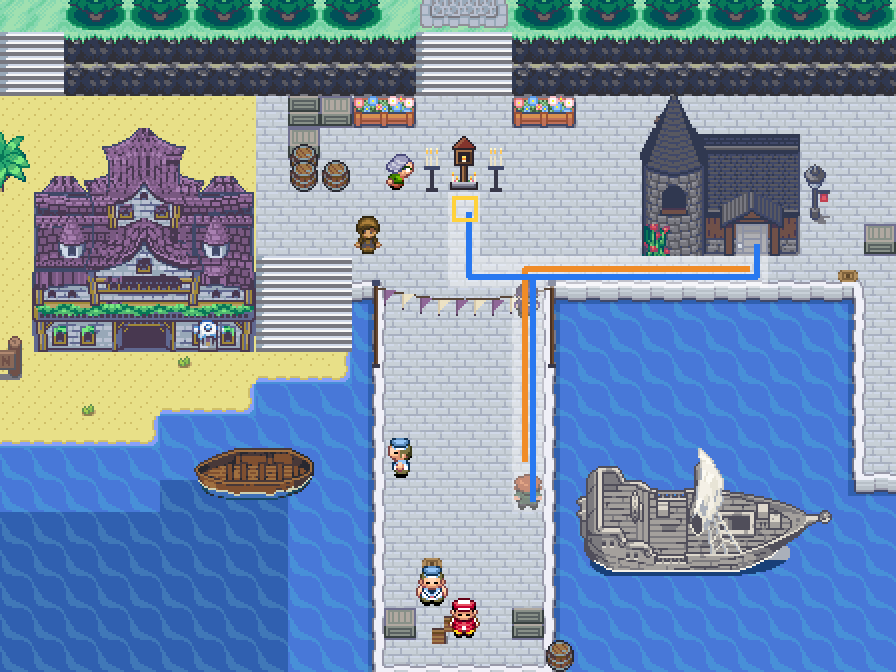
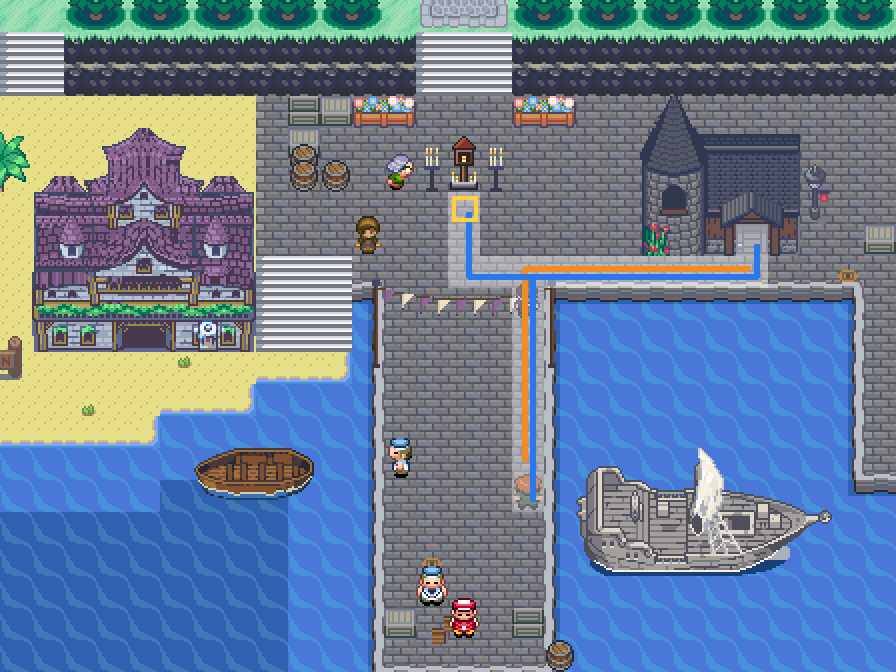
Pelluca waterfront: deeper, richer grey for the dock stone
User: keep the dock stone, make it a deeper, richer mix of greys. Watercress' bricks, kerb and drop kept; every
colour taken deeper and each brick given one of six greys (cool slate, neutral, warm) by its position, repeating every
3 x 2 cells to keep the tile count down. Walk check still clear.

Claude-Session: https://claude.ai/code/session_01FHXnfqnedTHLf5QFbB3MCU

Changed region(s): [[0.2812, 0.125, 1.0, 1.0]]

diff --git a/tools/art/pelluca/waterfront_mock.py b/tools/art/pelluca/waterfront_mock.py
@@ -37,8 +37,36 @@ WC, CB = 0x869C10, 0x869B84
 blk = lambda x, y: (slice(y * S, y * S + S), slice(x * S, x * S + S))
 h = lambda s: int(s, 16)
 
+# v3 (user 2026-11-25: "I like the dock stone itself we currently have, I just want it to be a deeper, richer mix of
+# grey colorings"): Watercress' own stone kept (its bricks, kerb and drop), every colour taken deeper; and each brick
+# given its own grey from a set of six (cool slate, neutral, warm), so the paving reads as weathered stone. A brick's
+# grey follows from where it starts, in a pattern that repeats every 3 x 2 cells (the tile budget stays small).
+STONE_IDS = {0x2b7, 0x2dc, 0x2d4, 0x2dd, 0x2db, 0x2de, 0x2ee, 0x2e5, 0x2e3, 0x2e6, 0x2df, 0x2d5, 0x2d6, 0x2d7, 0x2d3,
+             0x2ff, 0x2f7, 0x2d8, 0x2d0}
+BODY, HIGH = (200, 208, 216), (208, 216, 232)
+DEEP = {(240, 240, 248): (188, 190, 198), (184, 192, 200): (96, 98, 108), (168, 176, 192): (84, 86, 98),
+        (152, 152, 168): (104, 104, 116), (120, 120, 136): (70, 70, 82), (64, 72, 104): (38, 40, 52)}
+BRICK_GREYS = [(138, 140, 150), (126, 128, 138), (148, 146, 148), (118, 118, 126), (142, 136, 132), (130, 126, 126)]
 def wc(m):
-    img, g, ts = MP.grid(WC); return ts.meta(h(m) if isinstance(m, str) else m).copy()
+    img, g, ts = MP.grid(WC); m = h(m) if isinstance(m, str) else m
+    return ts.meta(m).copy()
+def deepen_stone(img, cells):
+    """the quay's and piers' stone (the cells given), deeper; each brick its own grey"""
+    from scipy.ndimage import label
+    mask = np.zeros(img.shape[:2], bool)
+    for (x, y) in cells: mask[y * S:(y + 1) * S, x * S:(x + 1) * S] = True
+    body = mask & ((img == BODY).all(-1) | (img == HIGH).all(-1))
+    lab, n = label(body)
+    out = img.copy()
+    from scipy.ndimage import find_objects
+    for i, sl in enumerate(find_objects(lab)):
+        y0, x0 = sl[0].start, sl[1].start
+        k = ((x0 % 48) // 4 * 7 + (y0 % 32) // 4 * 3) % len(BRICK_GREYS)
+        c = np.array(BRICK_GREYS[k]); comp = lab[sl] == i + 1
+        sub = out[sl]; hi = comp & (img[sl] == HIGH).all(-1); bo = comp & ~hi
+        sub[bo] = c; sub[hi] = np.clip(c + 14, 0, 255)
+    for a_, b_ in DEEP.items(): out[mask & (img == a_).all(-1)] = b_
+    return out
 def cb(m):
     img, g, ts = MP.grid(CB); return ts.meta(h(m) if isinstance(m, str) else m).copy()
 
@@ -128,6 +156,7 @@ def basin(x, y):
 # --------------------------------------------------------------------------------------------------- composition
 def compose(town):
     img = np.array(town.convert('RGB')).copy()
+    STONE_CELLS = set()
     base = img.copy()
     land = np.zeros((H, W), bool)                          # (for the shallows)
     # 1. water everywhere below row 36 outside the kept woods
@@ -178,7 +207,13 @@ def compose(town):
         else:
             img[blk(x, K)] = wc('2de' if x == x0 + 1 else '2ee' if x == x1 else '2dc')
             img[blk(x, K + 1)] = wc('2e5' if x == x0 + 1 else '2e3' if x == x1 else '2d4')
+    for y in range(QUAY[1], K + 2):
+        for x in range(QUAY[0], QUAY[2] + 1): STONE_CELLS.add((x, y))
+    for (px, w, kr, bunt) in PIERS:
+        for x in range(px, px + w):
+            for y in range(K, kr + 2): STONE_CELLS.add((x, y))
     # the stair down onto the beach (Pelluca's own cliff stair, from the west stairs)
+    img = deepen_stone(img, STONE_CELLS - set(STAIRS_DOWN))
     for (x, y) in STAIRS_DOWN: img[blk(x, y)] = base[blk(37 + (x - 32), 35)]; land[y, x] = True
     # 4. the shallows: inside the basin, and two cells out from any land (C, Odyssey)
     from scipy.ndimage import binary_dilation
@@ -215,7 +250,7 @@ def compose(town):
             t = img[blk(x, y + dy)]; t[m] = c[m]; img[blk(x, y + dy)] = t
     # 9. quay furniture
     for (x, y, m) in FLOWERS + CRATES + LAMPS:
-        t = wc(m); cur = img[blk(x, y)]; pav = wc('2b7'); d = (t != pav).any(-1); cur[d] = t[d]; img[blk(x, y)] = cur
+        t = wc(m); cur = img[blk(x, y)]; pav = wc('2b7'); d = (t != pav).any(-1); cur[d] = t[d]; img[blk(x, y)] = cur   # (props over the deepened stone)
     for (x, col) in STALLS:
         a = np.array(Image.open(os.path.join(ROOT, 'assets/crown_reference/pieces/stall_%s.png' % ('red' if col == 'canvas' else 'blue'))).convert('RGBA'))
         rgb = a[..., :3].astype(int); m = a[..., 3] > 0

diff --git a/assets/pelluca_dock_spec/PELLUCA_DESIGN.md b/assets/pelluca_dock_spec/PELLUCA_DESIGN.md
@@ -629,6 +629,10 @@ drafts were previews only and the game still loaded the old Mauville map.
   composition after studying Watercress, Crown's harbour market, Lazarus' autumn harbour (faa2ac), Odyssey 3.1/3.22,
   Port Ginseng (`waterfront_refs.png`). Layouts: `waterfront_layouts_v1.png` (tools/art/pelluca/waterfront_plans.py);
   user: "primarily A with bits of B and C".
+- The stone (user 2026-11-25: "I like the dock stone itself... just want it to be a deeper, richer mix of grey
+  colorings"): Watercress' bricks and kerb kept, every colour deeper, each brick its own grey of six (cool slate,
+  neutral, warm), repeating every 3 x 2 cells so the tile budget stays small (a first try toward Crown's olive castle
+  grey was not wanted).
 - Mock v3 (`waterfront_mock_v3*.png`, tools/art/pelluca/waterfront_mock.py): one quay of Watercress stone (rows 36-40,
   kerb 41, its face 42), three stone piers (the great pier on the main stair's axis x 35-41; a short pier x 50-54; an
   east pier x 64-67), a pale basin inside a reef arm from the east woods, Crown's awnings recoloured as sailcloth cargo
